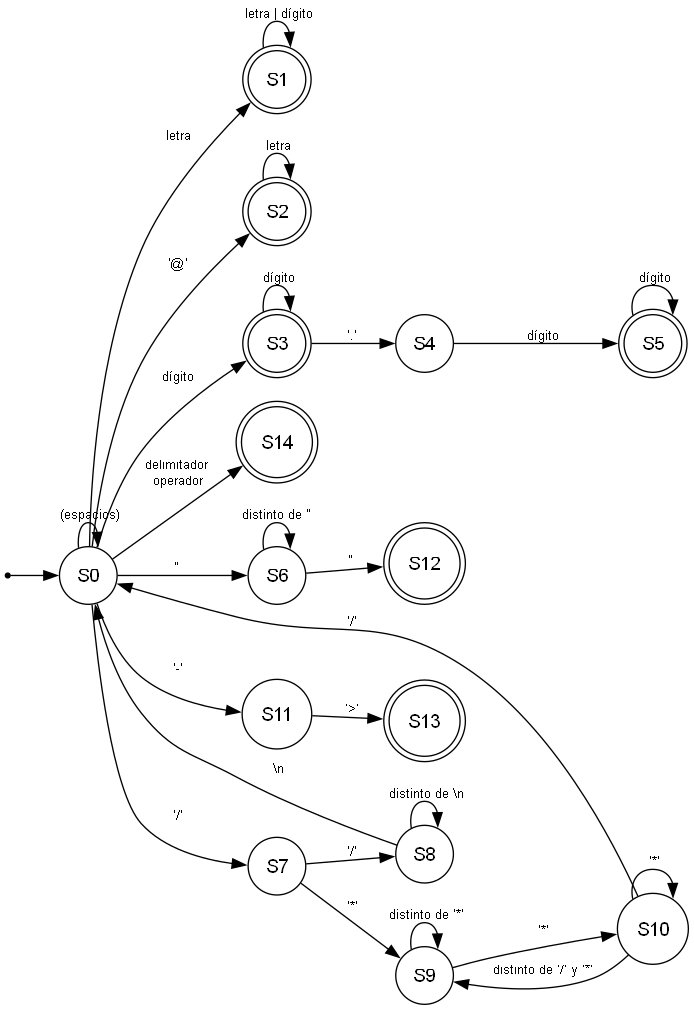
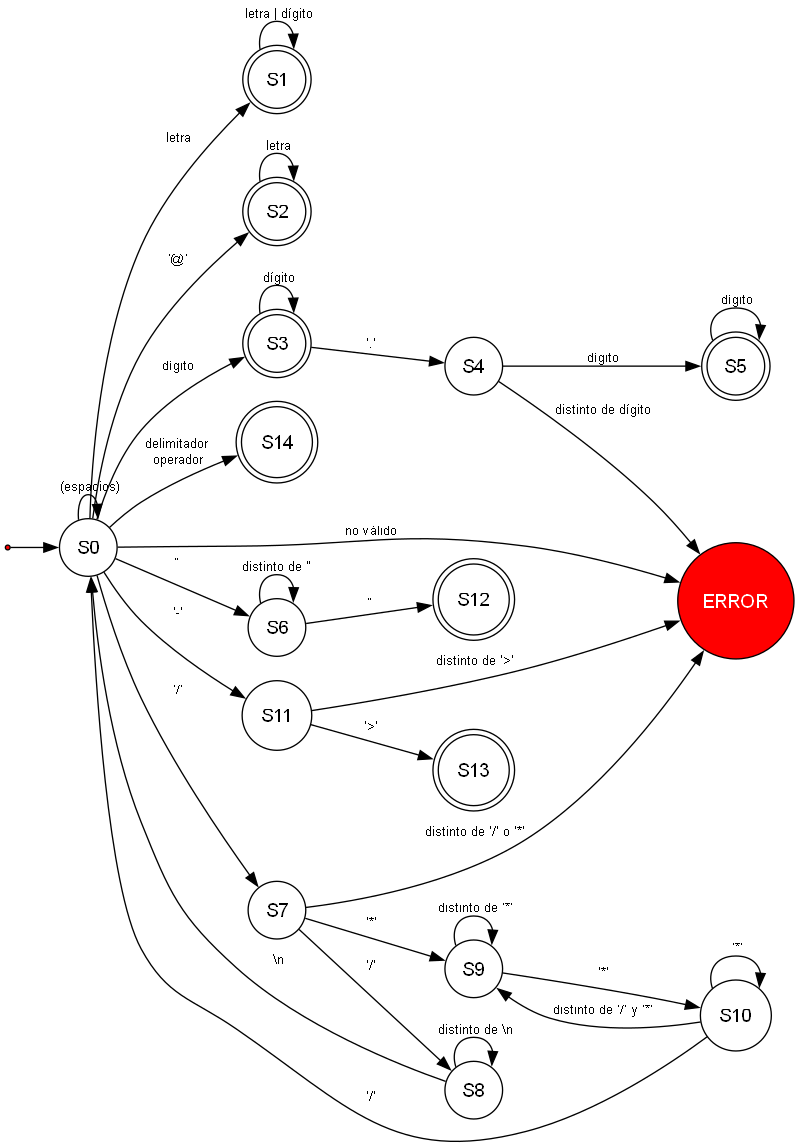
Modificación y agragación de estados al graficar AFD

diff --git a/src/main/java/utilidades/GraficadorAFD.java b/src/main/java/utilidades/GraficadorAFD.java
@@ -22,22 +22,33 @@ public class GraficadorAFD {
 
     private String construirCodigoDOT() {
         StringBuilder dot = new StringBuilder();
-        
+
         dot.append("digraph AFD {\n");
-        dot.append("    rankdir=LR;\n"); 
-        dot.append("    node [shape = circle, fontname=\"Helvetica\"];\n");
-        dot.append("    edge [fontname=\"Helvetica\", fontsize=10];\n\n");
+        dot.append("    rankdir=LR;\n");
         
+        // formas y los estados de aceptación
+        dot.append("    node [shape = doublecircle, fontname=\"Helvetica\"]; S1; S2; S3; S5; S12; S13; S14;\n");
+        
+        // estado trampa
+        dot.append("    node [shape = circle, style=filled, fillcolor=red, fontcolor=white, fontname=\"Helvetica\"]; ERROR;\n");
+        
+        // círculo normal transparente para los demás
+        dot.append("    node [shape = circle, style=\"\", fontcolor=black, fontname=\"Helvetica\"];\n"); 
+        dot.append("    edge [fontname=\"Helvetica\", fontsize=10];\n\n");
+
+        // punto de inicio
         dot.append("    inicio [shape=point];\n");
         dot.append("    inicio -> S0;\n\n");
 
+        // transiciones normales
         dot.append("    S0 -> S1 [label=\" letra\"];\n");
         dot.append("    S0 -> S2 [label=\" '@'\"];\n");
         dot.append("    S0 -> S3 [label=\" dígito\"];\n");
         dot.append("    S0 -> S6 [label=\" \\\" \"];\n");
         dot.append("    S0 -> S7 [label=\" '/'\"];\n");
         dot.append("    S0 -> S11 [label=\" '-'\"];\n");
-        dot.append("    S0 -> S0 [label=\" delimitador \\n operador \\n (espacios)\"];\n\n");
+        dot.append("    S0 -> S14 [label=\" delimitador \\n operador\"];\n");
+        dot.append("    S0 -> S0 [label=\" (espacios)\"];\n\n");
 
         dot.append("    S1 -> S1 [label=\" letra | dígito\"];\n");
         dot.append("    S2 -> S2 [label=\" letra\"];\n");
@@ -47,7 +58,7 @@ public class GraficadorAFD {
         dot.append("    S5 -> S5 [label=\" dígito\"];\n\n");
 
         dot.append("    S6 -> S6 [label=\" distinto de \\\" \"];\n");
-        dot.append("    S6 -> S0 [label=\" \\\" \"];\n\n");
+        dot.append("    S6 -> S12 [label=\" \\\" \"];\n\n");
 
         dot.append("    S7 -> S8 [label=\" '/'\"];\n");
         dot.append("    S7 -> S9 [label=\" '*'\"];\n");
@@ -55,13 +66,17 @@ public class GraficadorAFD {
         dot.append("    S8 -> S0 [label=\" \\\\n\"];\n");
         dot.append("    S9 -> S9 [label=\" distinto de '*'\"];\n");
         dot.append("    S9 -> S10 [label=\" '*'\"];\n");
-        dot.append("    S10 -> S9 [label=\" distinto de '/'\"];\n");
+        dot.append("    S10 -> S9 [label=\" distinto de '/' y '*'\"];\n");
         dot.append("    S10 -> S10 [label=\" '*'\"];\n");
         dot.append("    S10 -> S0 [label=\" '/'\"];\n\n");
 
-        dot.append("    S11 -> S0 [label=\" '>'\"];\n\n");
+        dot.append("    S11 -> S13 [label=\" '>'\"];\n\n");
 
-        dot.append("    node [shape = doublecircle]; S1; S2; S3; S5;\n");
+        // transiciones explícitas hacia el estado trampa 
+        dot.append("    S0 -> ERROR [label=\" no válido\"];\n");
+        dot.append("    S4 -> ERROR [label=\" distinto de dígito\"];\n");
+        dot.append("    S7 -> ERROR [label=\" distinto de '/' o '*'\"];\n");
+        dot.append("    S11 -> ERROR [label=\" distinto de '>'\"];\n");
 
         dot.append("}\n");
         return dot.toString();

diff --git a/src/main/java/modelos/Token.java b/src/main/java/modelos/Token.java
@@ -36,7 +36,7 @@ public class Token {
     }
 
     
-    public String obtenerDetalles() {
+    public String obtenerasdlles() {
         return "Token { " +
                 "ID: " + id +
                 ", Lexema: '" + lexema + '\'' +
